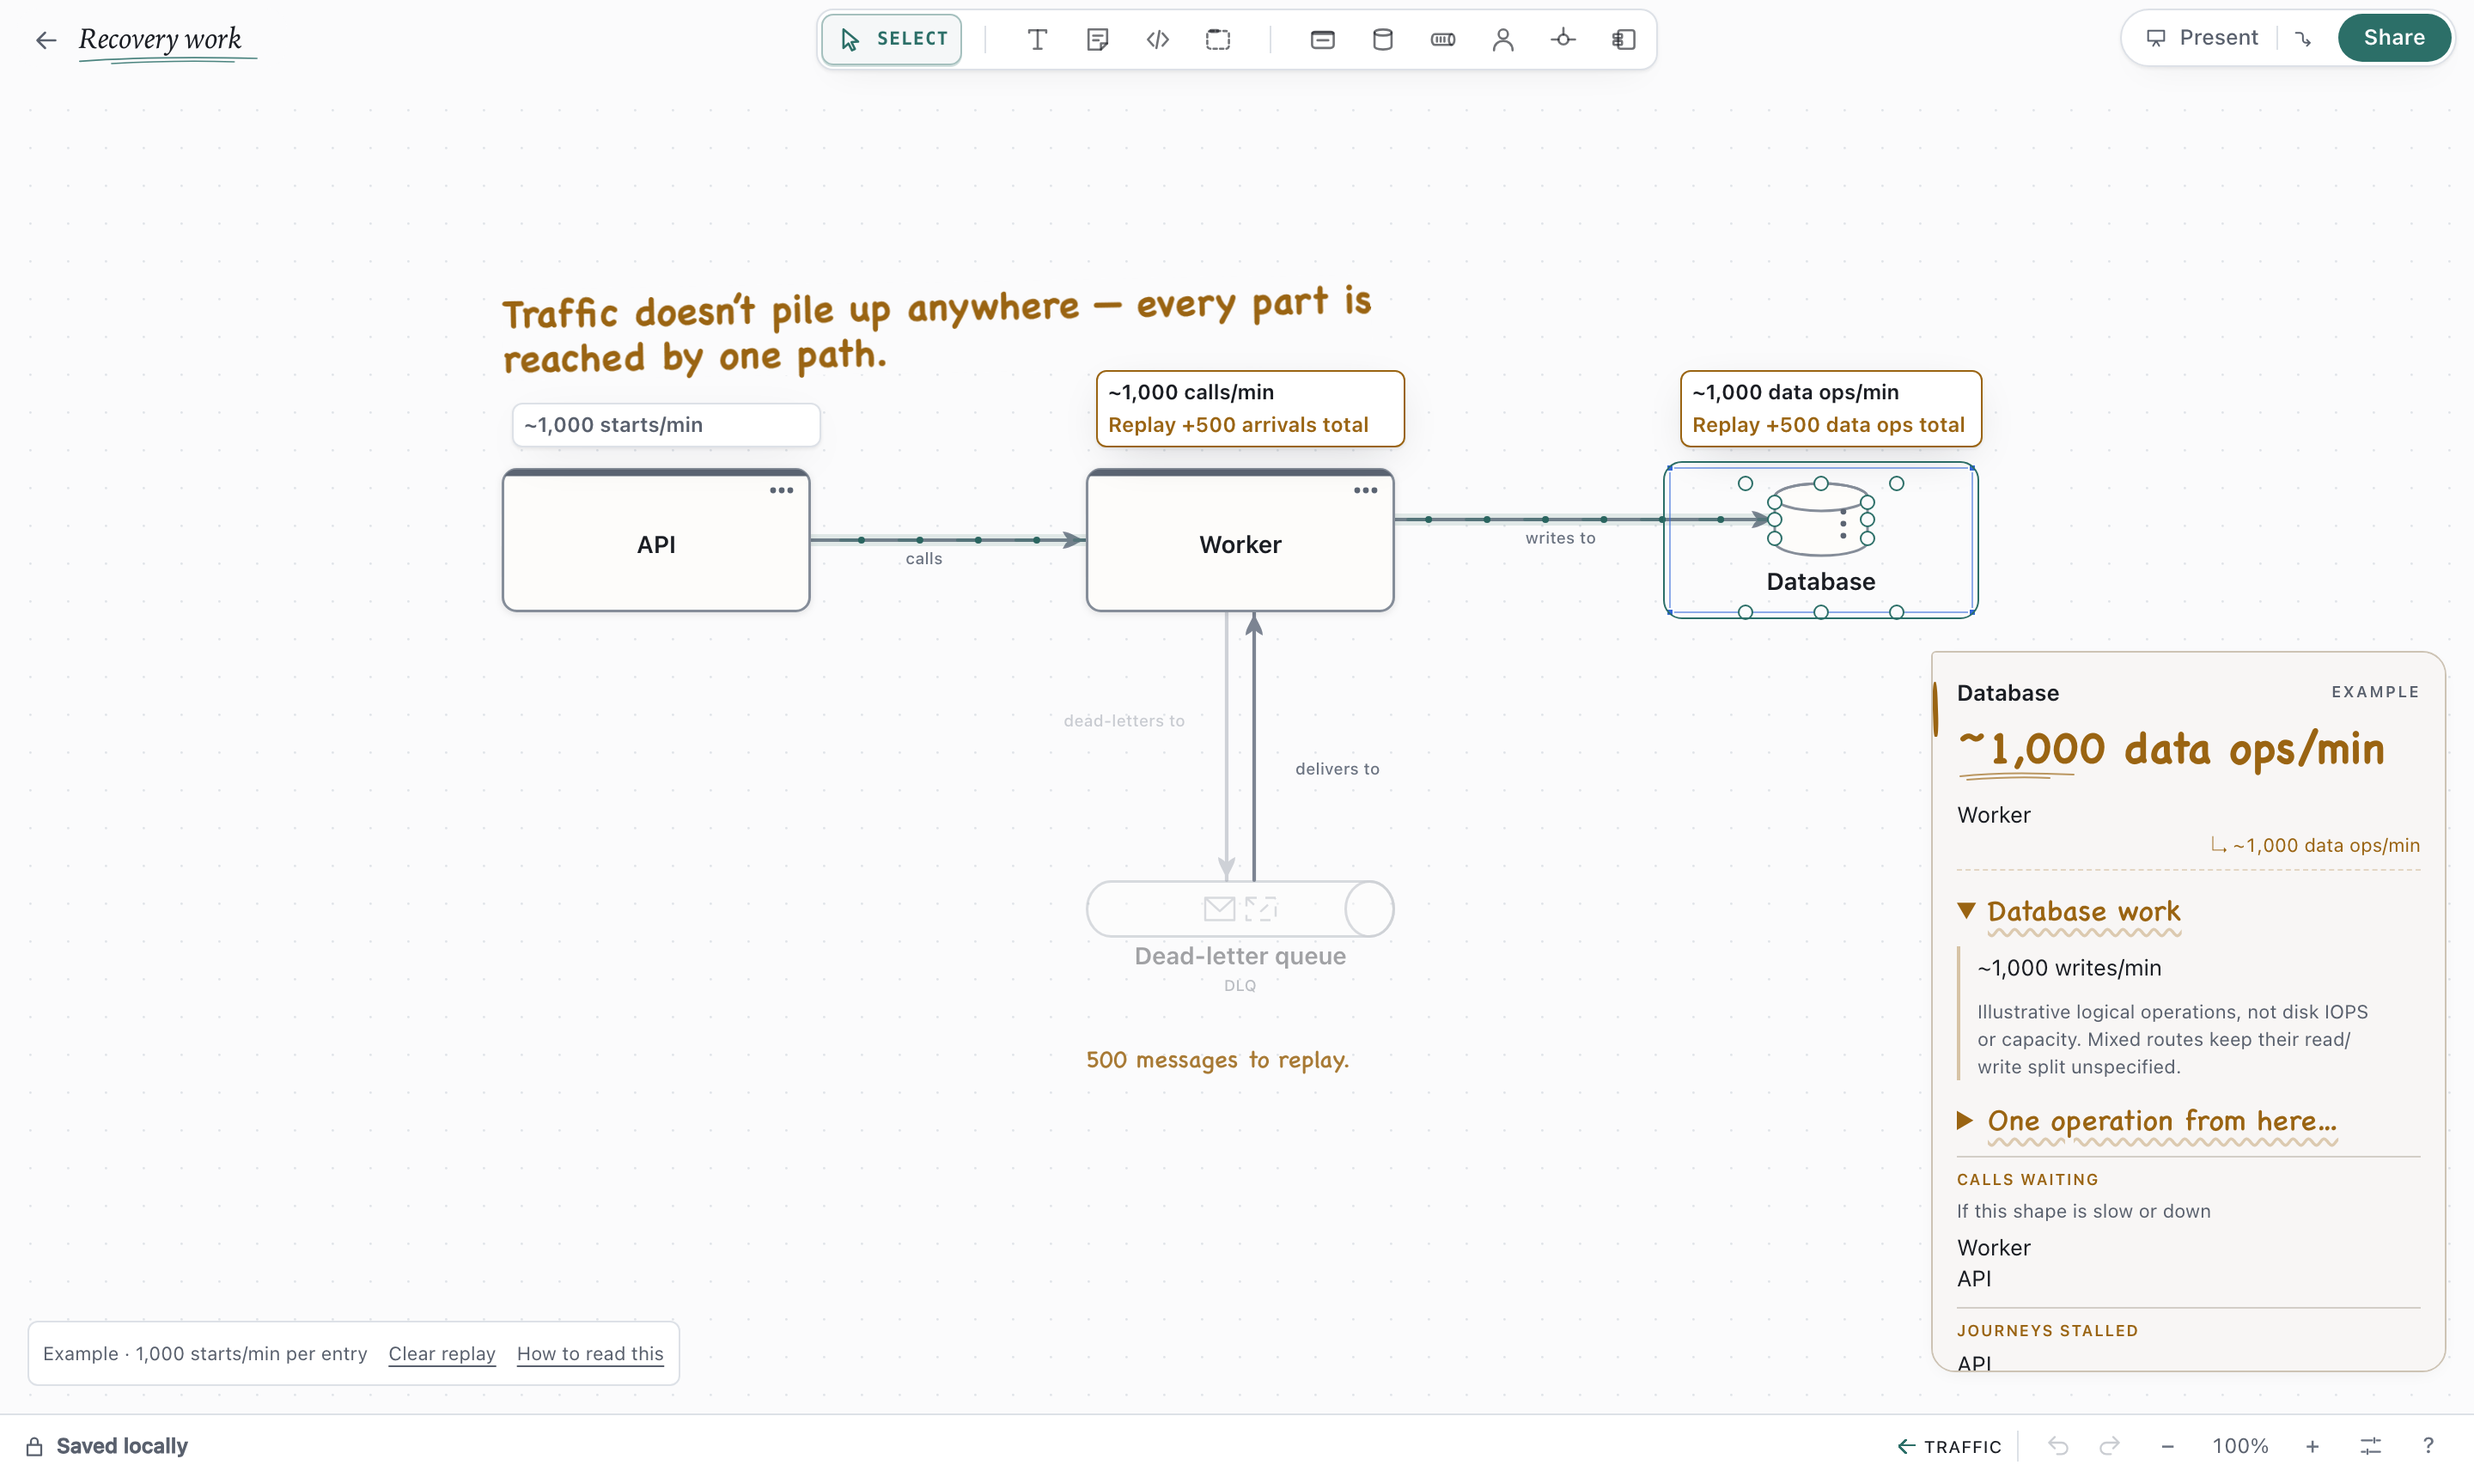
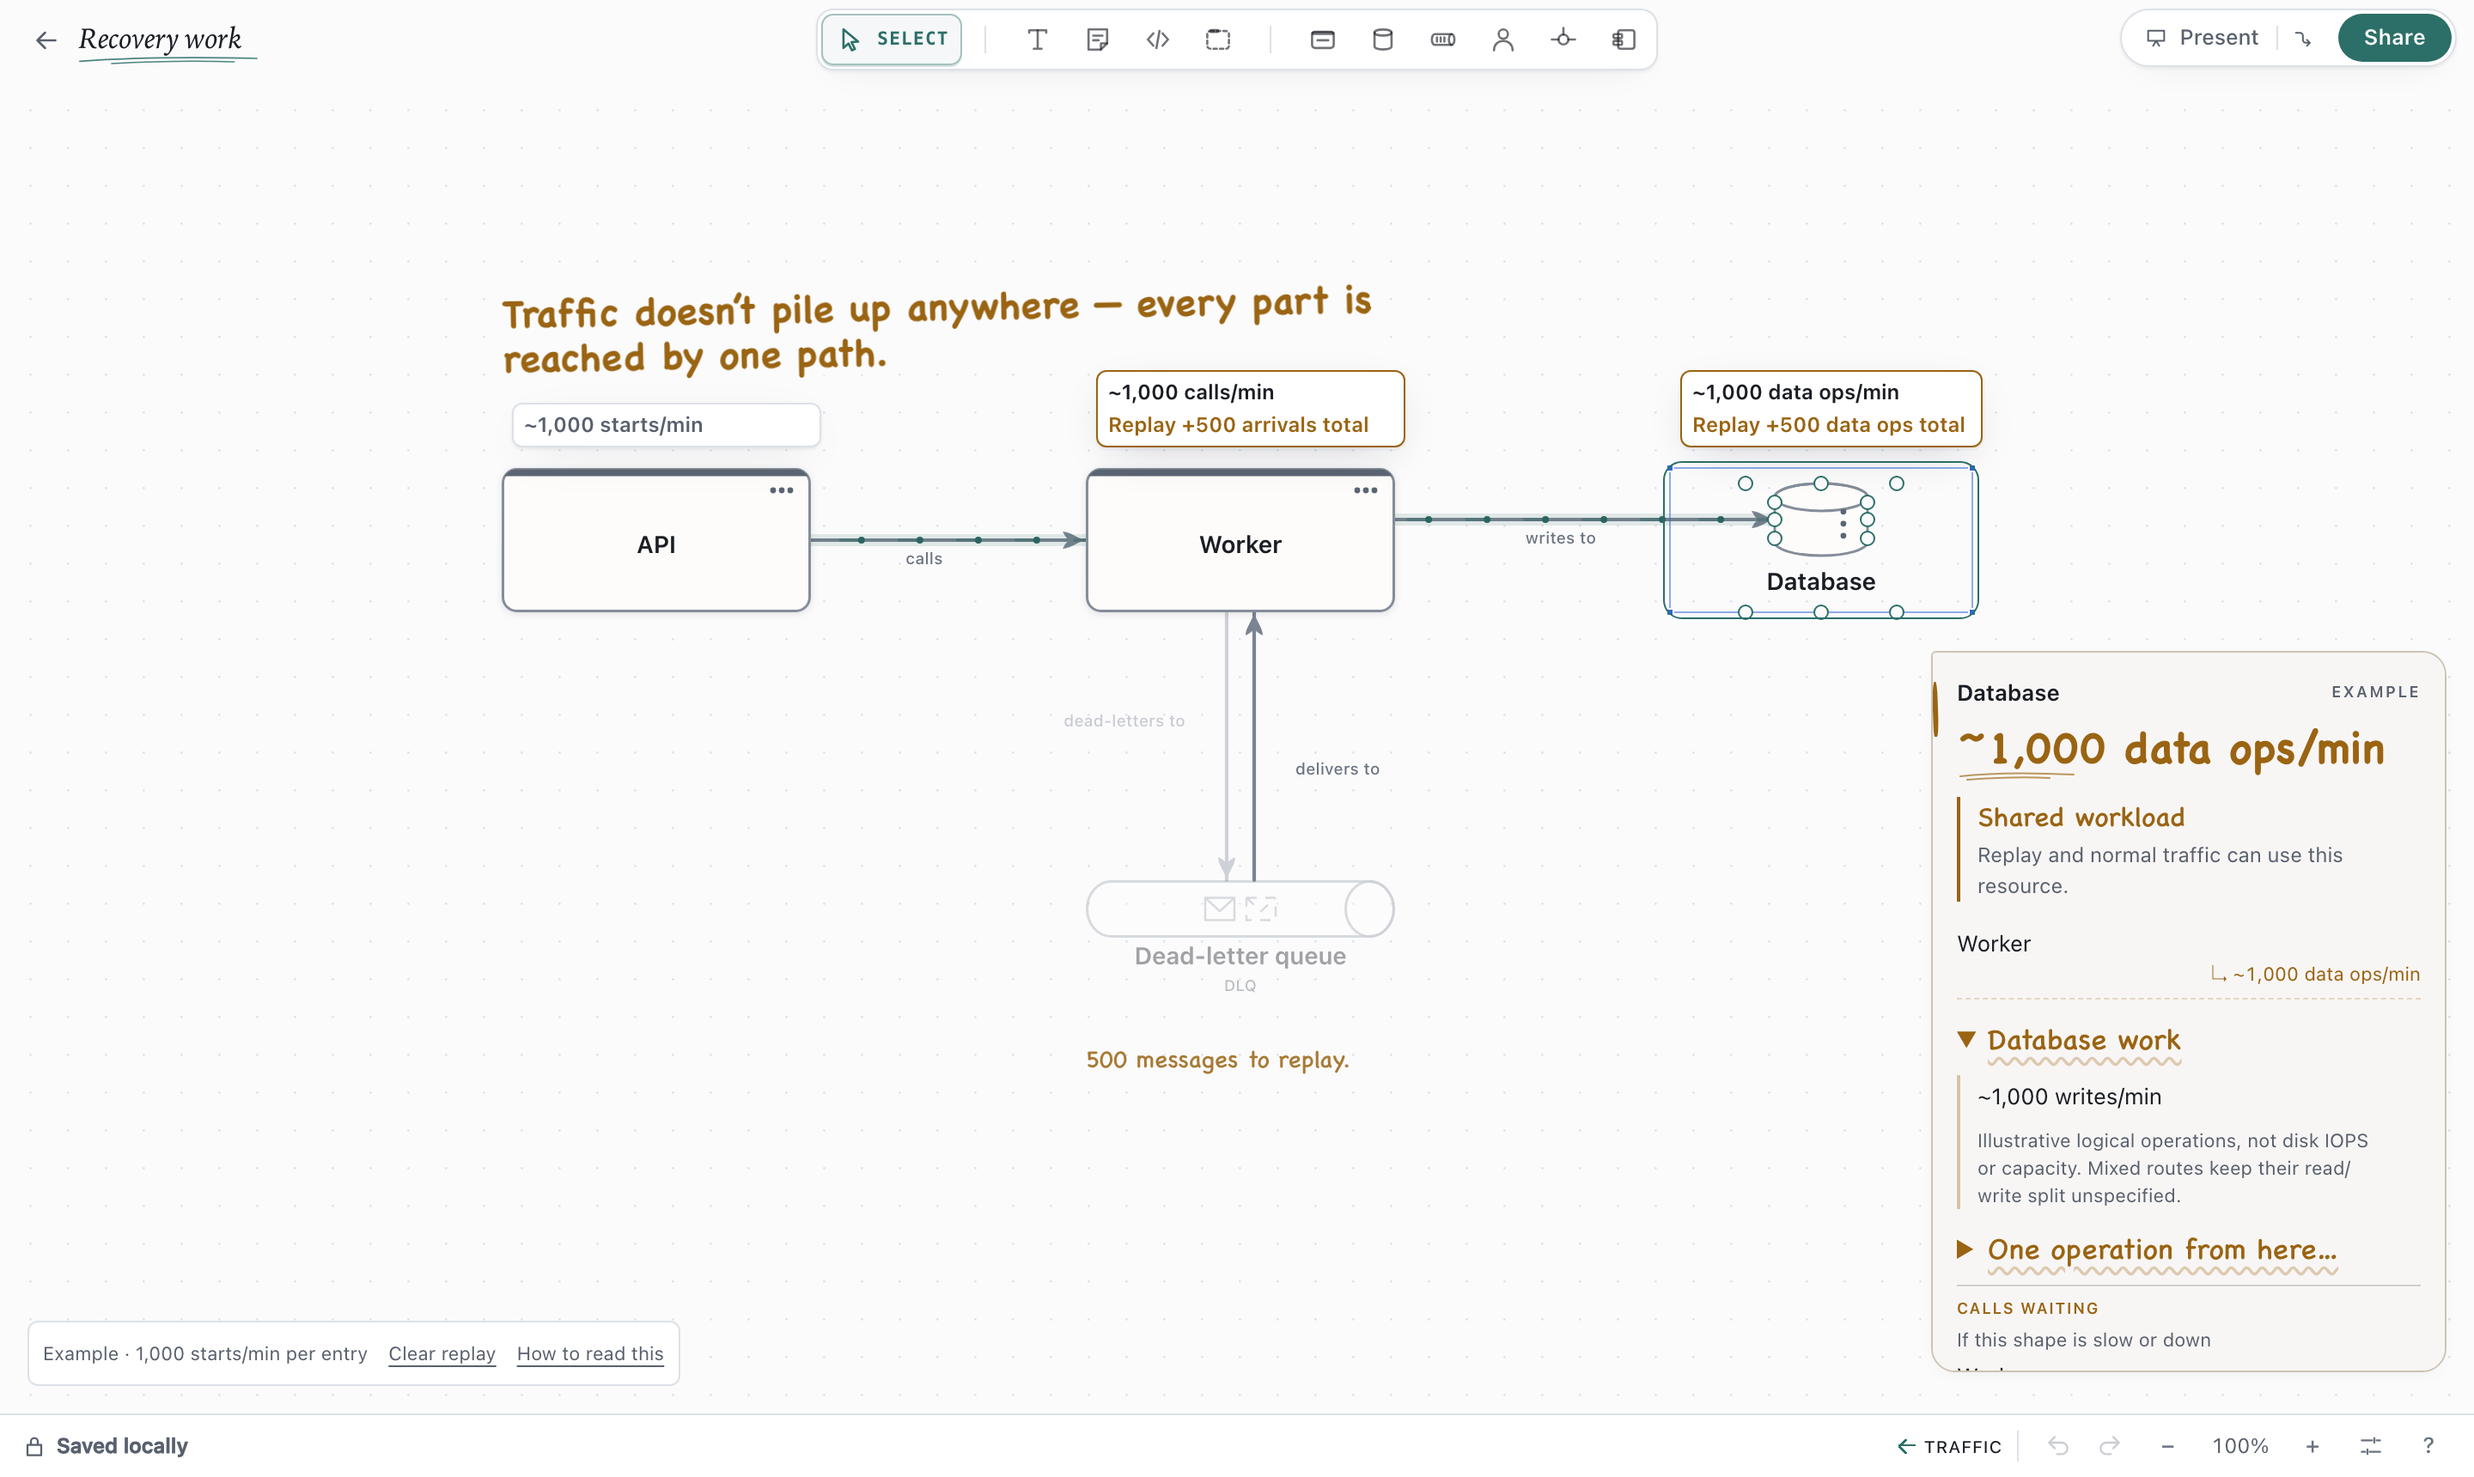
feat(traffic): explain shared recovery workload in resource notes

Changed region(s): [[0.7812, 0.5238, 0.9688, 0.9244]]

diff --git a/src/canvas/TrafficSketches.tsx b/src/canvas/TrafficSketches.tsx
@@ -150,6 +150,14 @@ export function TrafficSketches() {
       return [{ node, label, baseline: count ? baseline : undefined, recovery: !!count, text: layoutText(label, { font: { stack: 'sans', size: 12, weight: 600 }, maxWidth: node.width - 12, lineHeight: 16 }) }];
     });
   }, [analysis, nodes, activeReplay, scenario]);
+  const sharedWork = useMemo(() => {
+    if (!content || !selectedId || !activeReplay || activeReplay.count === null
+      || !Number.isSafeInteger(activeReplay.count) || activeReplay.count <= 0 || activeReplay.count > MAX_REPLAY_MESSAGES
+      || !activeReplay.plan.shared.includes(selectedId)) return null;
+    return layoutText('Replay and normal traffic can use this resource.', {
+      font: { stack: 'sans', size: 12, weight: 400 }, maxWidth: content.width - 66, lineHeight: 18,
+    });
+  }, [content, selectedId, activeReplay]);
   const callout = useMemo(
     () => {
       if (!content) return null;
@@ -162,7 +170,7 @@ export function TrafficSketches() {
       // Let the field note unfold when there is room; on crowded canvases try shorter scrollable
       // notes before allowing an overlap. Reserve its expanded height to avoid a jump when opened.
       const workHeight = content.work ? content.work.items.reduce((sum, item) => sum + item.height + 6, 0) + content.work.detail.height + 30 : 0;
-      const desired = Math.min(content.height + workHeight + (content.databaseNote ? 160 : 0) + (content.recovery ? 220 : 0), visible ? visible.height / scale : 420);
+      const desired = Math.min(content.height + (sharedWork ? sharedWork.height + 45 : 0) + workHeight + (content.databaseNote ? 160 : 0) + (content.recovery ? 220 : 0), visible ? visible.height / scale : 420);
       const heights = [...new Set([desired, Math.min(desired, 420), Math.min(desired, 360), Math.min(desired, 300), Math.min(desired, 270)])];
       let maxHeight = heights[heights.length - 1]!;
       let at = placeCallout(content.anchor, content.width * scale, maxHeight * scale, obstacles, visible);
@@ -175,7 +183,7 @@ export function TrafficSketches() {
       }
       return { ...content, x: at.x, y: at.y, scale, maxHeight };
     },
-    [content, visible, camera, canvasWidth, canvasHeight, dlqNotes],
+    [content, visible, camera, canvasWidth, canvasHeight, dlqNotes, sharedWork],
   );
 
   if (!analysis || !nodes || !drawn) return null;
@@ -329,6 +337,12 @@ export function TrafficSketches() {
               <svg width="72" height="7" viewBox="0 0 72 7" aria-hidden="true"><path d="M2 4 Q27 1 68 3 M6 6 Q33 4 54 5" /></svg>
             </div>
             {callout.summary && <p className="dc-traffic-callout-summary">{callout.summary.lines.map((line, index) => <span key={index} className="dc-traffic-callout-line">{line}</span>)}</p>}
+            {sharedWork && (
+              <section className="dc-traffic-shared-work" aria-label="Shared workload">
+                <h3 style={{ fontFamily: familyOf('hand') }}>Shared workload</h3>
+                <p>{sharedWork.lines.map((line, index) => <span className="dc-traffic-callout-line" key={index}>{line.text}{' '}</span>)}</p>
+              </section>
+            )}
             {callout.sources.length > 0 && (
               <ul className="dc-traffic-callout-sources" aria-label="Rate breakdown" data-rates={callout.work ? true : undefined}>
                 {callout.sources.map((source, index) => (

diff --git a/e2e/traffic.spec.ts b/e2e/traffic.spec.ts
@@ -392,9 +392,14 @@ test('replay batches show total recovery work without editing the diagram or bas
   await page.screenshot({ path: '/tmp/traffic-recovery-preview.png' });
   await recovery.getByRole('button', { name: 'Worker', exact: true }).click();
   await expect(page.locator('.dc-traffic-callout')).toContainText('Worker');
+  await expect(page.getByRole('region', { name: 'Shared workload' })).toContainText('Replay and normal traffic can use this resource.');
   await expect(page.locator('.dc-traffic-replay-badge')).toHaveCount(2);
   await page.locator('.react-flow__node[data-id="db"] .dc-node').click();
   await page.locator('.dc-traffic-database summary').click();
+  await expect(page.getByRole('region', { name: 'Shared workload' })).toBeVisible();
+  await page.locator('.react-flow__node[data-id="api"] .dc-node').click();
+  await expect(page.getByRole('region', { name: 'Shared workload' })).toHaveCount(0);
+  await page.locator('.react-flow__node[data-id="db"] .dc-node').click();
   await expect(page.locator('.dc-traffic-replay-badge').filter({ hasText: 'data ops' })).toContainText('Replay +500 data ops total');
   await expect(page.locator('.dc-traffic-dlq-note')).toHaveText('500 messages to replay.');
   await page.locator('.react-flow__node[data-id="dlq"] .dc-node').click();
@@ -404,6 +409,7 @@ test('replay batches show total recovery work without editing the diagram or bas
   await page.locator('.react-flow__node[data-id="db"] .dc-node').click();
   await expect(page.locator('.dc-traffic-replay-badge')).toHaveCount(0);
   await expect(page.locator('.dc-traffic-dlq-note')).toHaveText('Nothing to replay in this example.');
+  await expect(page.getByRole('region', { name: 'Shared workload' })).toHaveCount(0);
   const clear = page.getByRole('button', { name: 'Clear replay', exact: true });
   await clear.click();
   await expect(clear).toHaveCount(0);
@@ -445,6 +451,12 @@ for (const colorScheme of ['light', 'dark'] as const) {
     expect(bounds!.y + bounds!.height).toBeLessThanOrEqual(844);
     expect(bounds!.height).toBeLessThanOrEqual(500);
     await page.screenshot({ path: `/tmp/traffic-recovery-mobile-${colorScheme}.png` });
+    await page.locator('.react-flow__node[data-id="worker"] .dc-node').click();
+    await expect(page.getByRole('region', { name: 'Shared workload' })).toBeVisible();
+    const sharedBounds = await page.locator('.dc-traffic-callout').boundingBox();
+    expect(sharedBounds!.x).toBeGreaterThanOrEqual(0);
+    expect(sharedBounds!.x + sharedBounds!.width).toBeLessThanOrEqual(390);
+    await page.screenshot({ path: `/tmp/traffic-shared-mobile-${colorScheme}.png` });
   });
 }
 

diff --git a/src/styles/canvas.css b/src/styles/canvas.css
@@ -6871,3 +6871,22 @@
   pointer-events: none;
   opacity: 0.85;
 }
+
+.dc-traffic-shared-work {
+  margin: 10px 0;
+  padding-left: 10px;
+  border-left: 2px solid var(--dc-caution);
+}
+.dc-traffic-shared-work h3 {
+  margin: 0 0 4px;
+  color: var(--dc-caution);
+  font-size: 16px;
+  line-height: 21px;
+  font-weight: 400;
+}
+.dc-traffic-shared-work p {
+  margin: 0;
+  color: var(--dc-text-muted);
+  font-size: 12px;
+  line-height: 18px;
+}

diff --git a/docs/guides/traffic.md b/docs/guides/traffic.md
@@ -143,6 +143,10 @@ a backlog alone cannot tell us how quickly it drains.
 
 An idle DLQ does not start normal traffic. Recovery follows the routes you drew and highlights
 dependencies also used by normal work. Without an outgoing replay route, it asks you to draw one.
+While a positive replay example is active, selecting a resource used by both replay and normal
+traffic shows a short **Shared workload** takeaway. It points out shared use, without predicting
+overload or latency.
+
 Compensation remains a range because the diagram cannot tell which earlier steps completed.
 Retries and new failures can add more work; loops have no finite total. The optional count is local,
 stays while you inspect other shapes, and never edits the diagram. Returning to the DLQ keeps

diff --git a/CHANGELOG.md b/CHANGELOG.md
@@ -12,6 +12,9 @@ The retired VS Code extension has [its own changelog](https://github.com/acltabo
 
 #### Added
 
+- Traffic notes highlight shared workload when replay and normal traffic can use the selected
+  resource, without extra inputs or capacity predictions.
+
 - A small Clear replay control removes the temporary recovery example without turning Traffic off.
 
 - The editor footer keeps save status and canvas controls compact, without element counts or the
